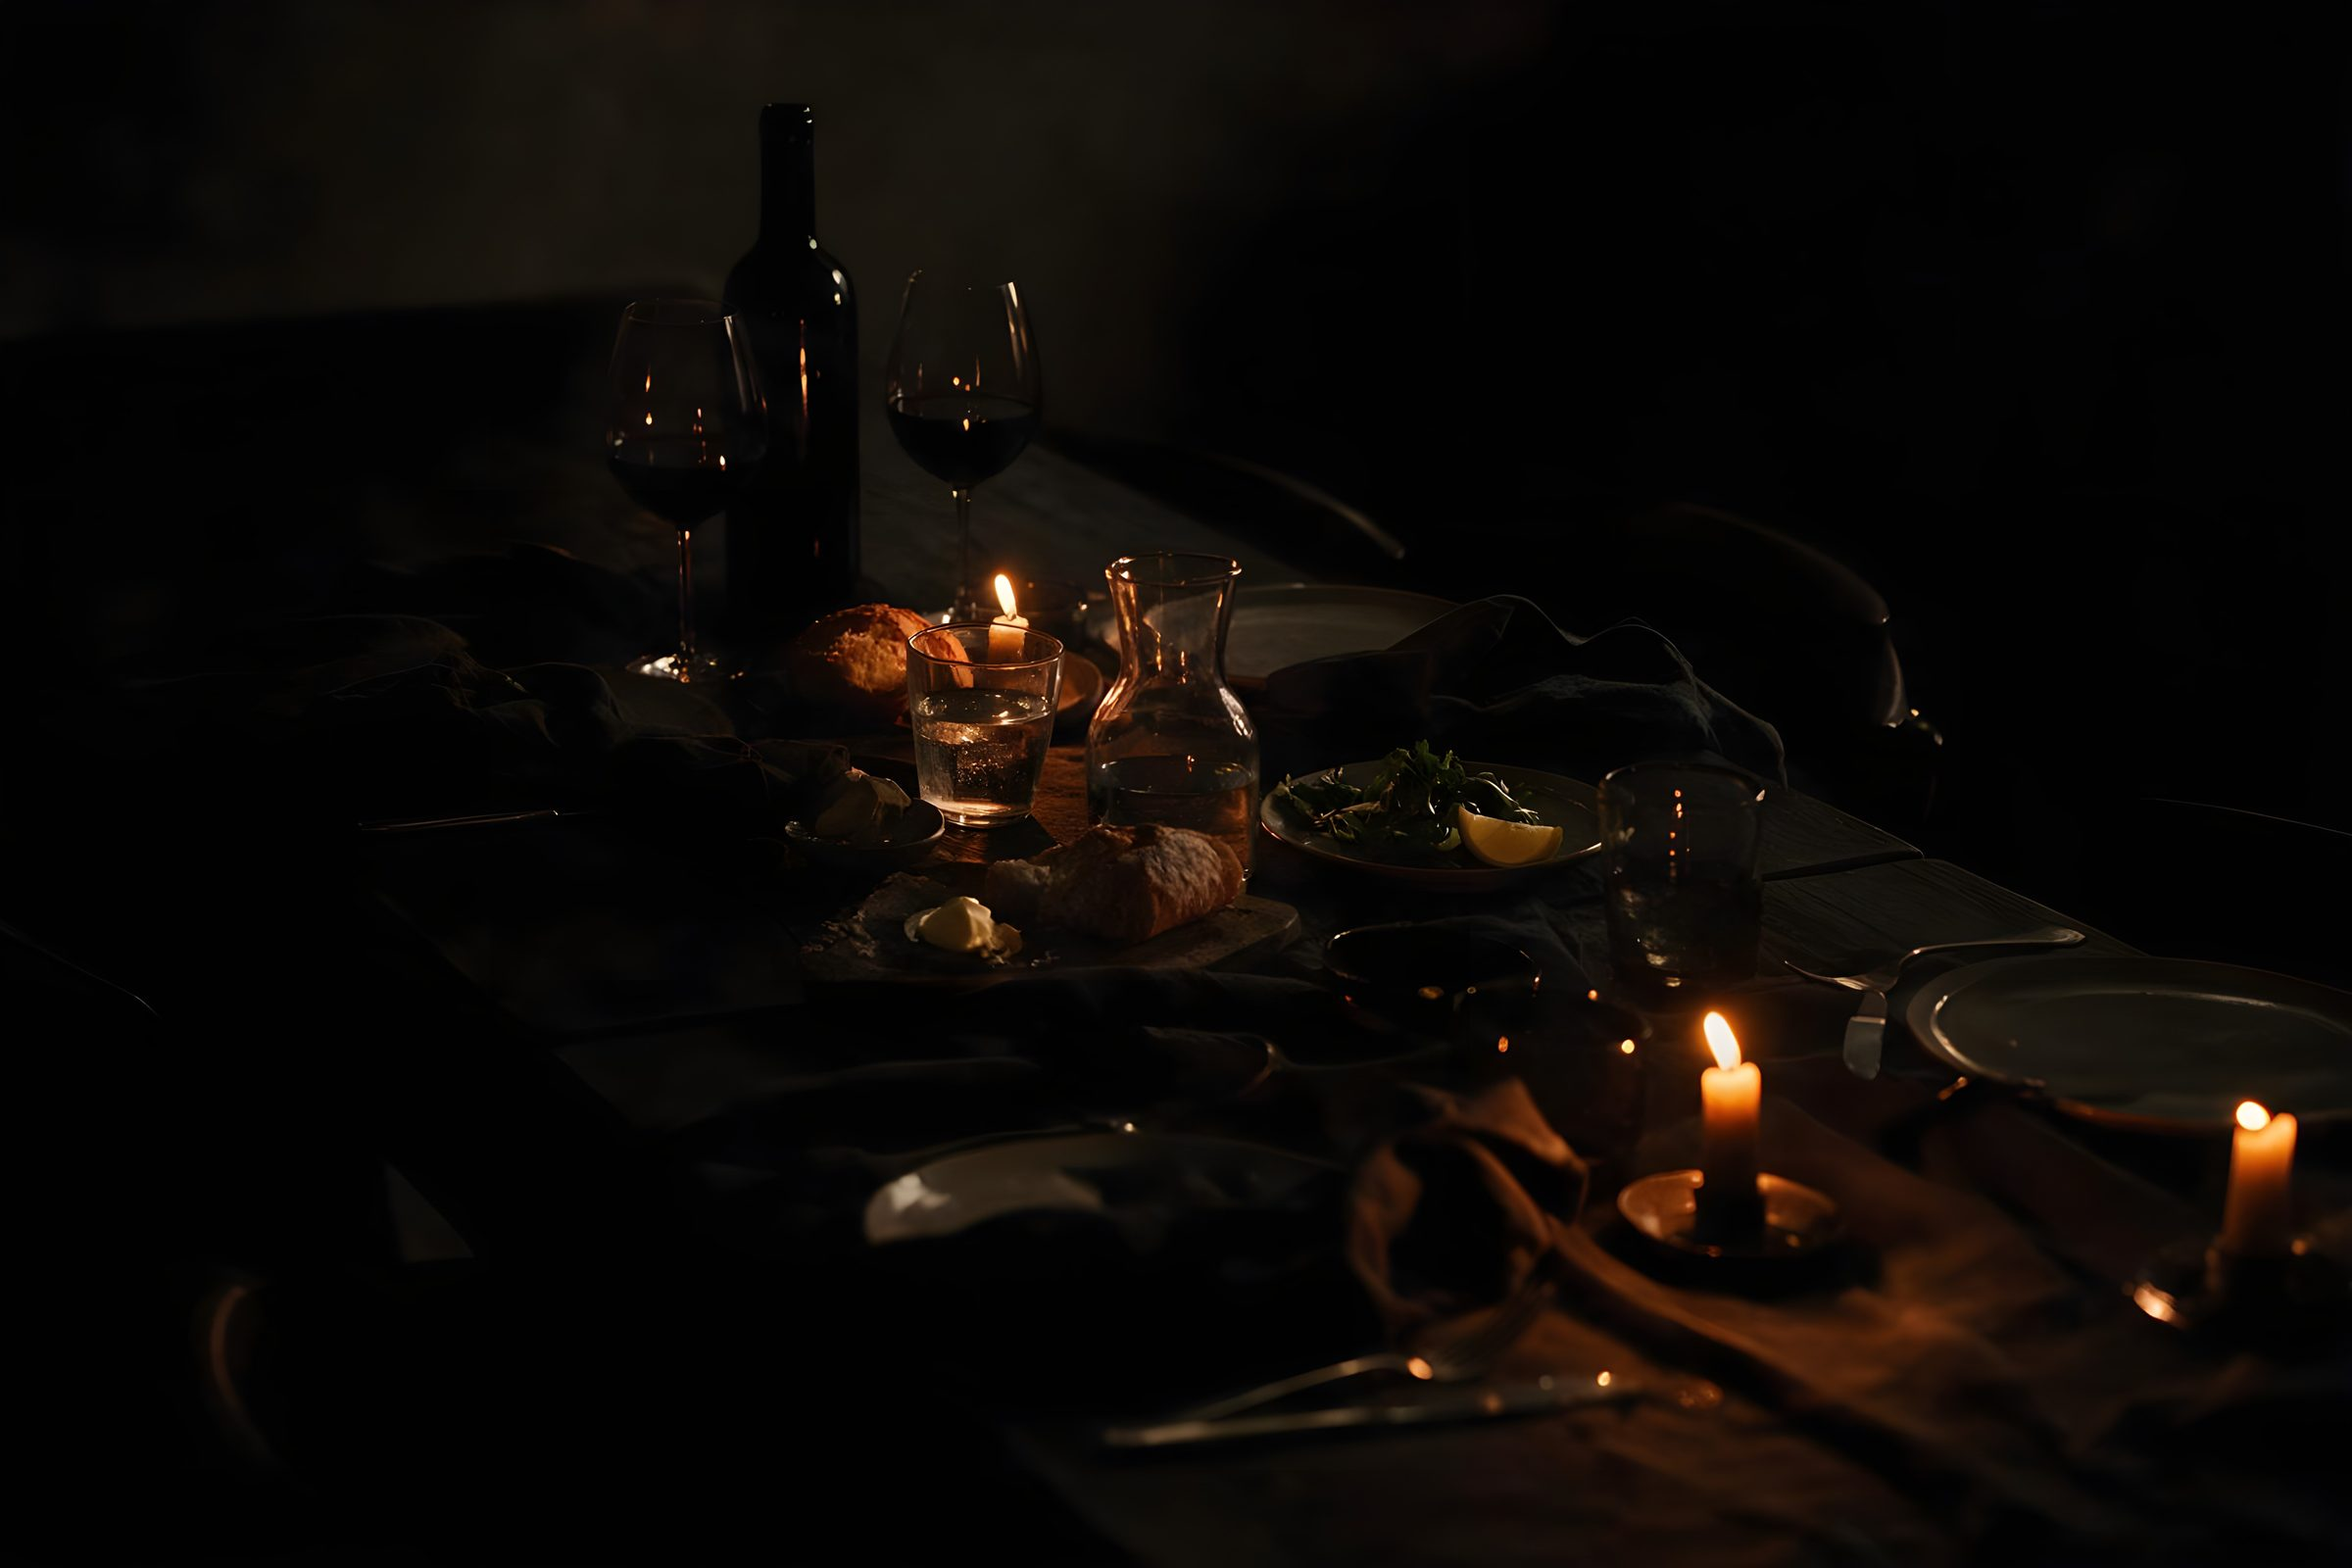
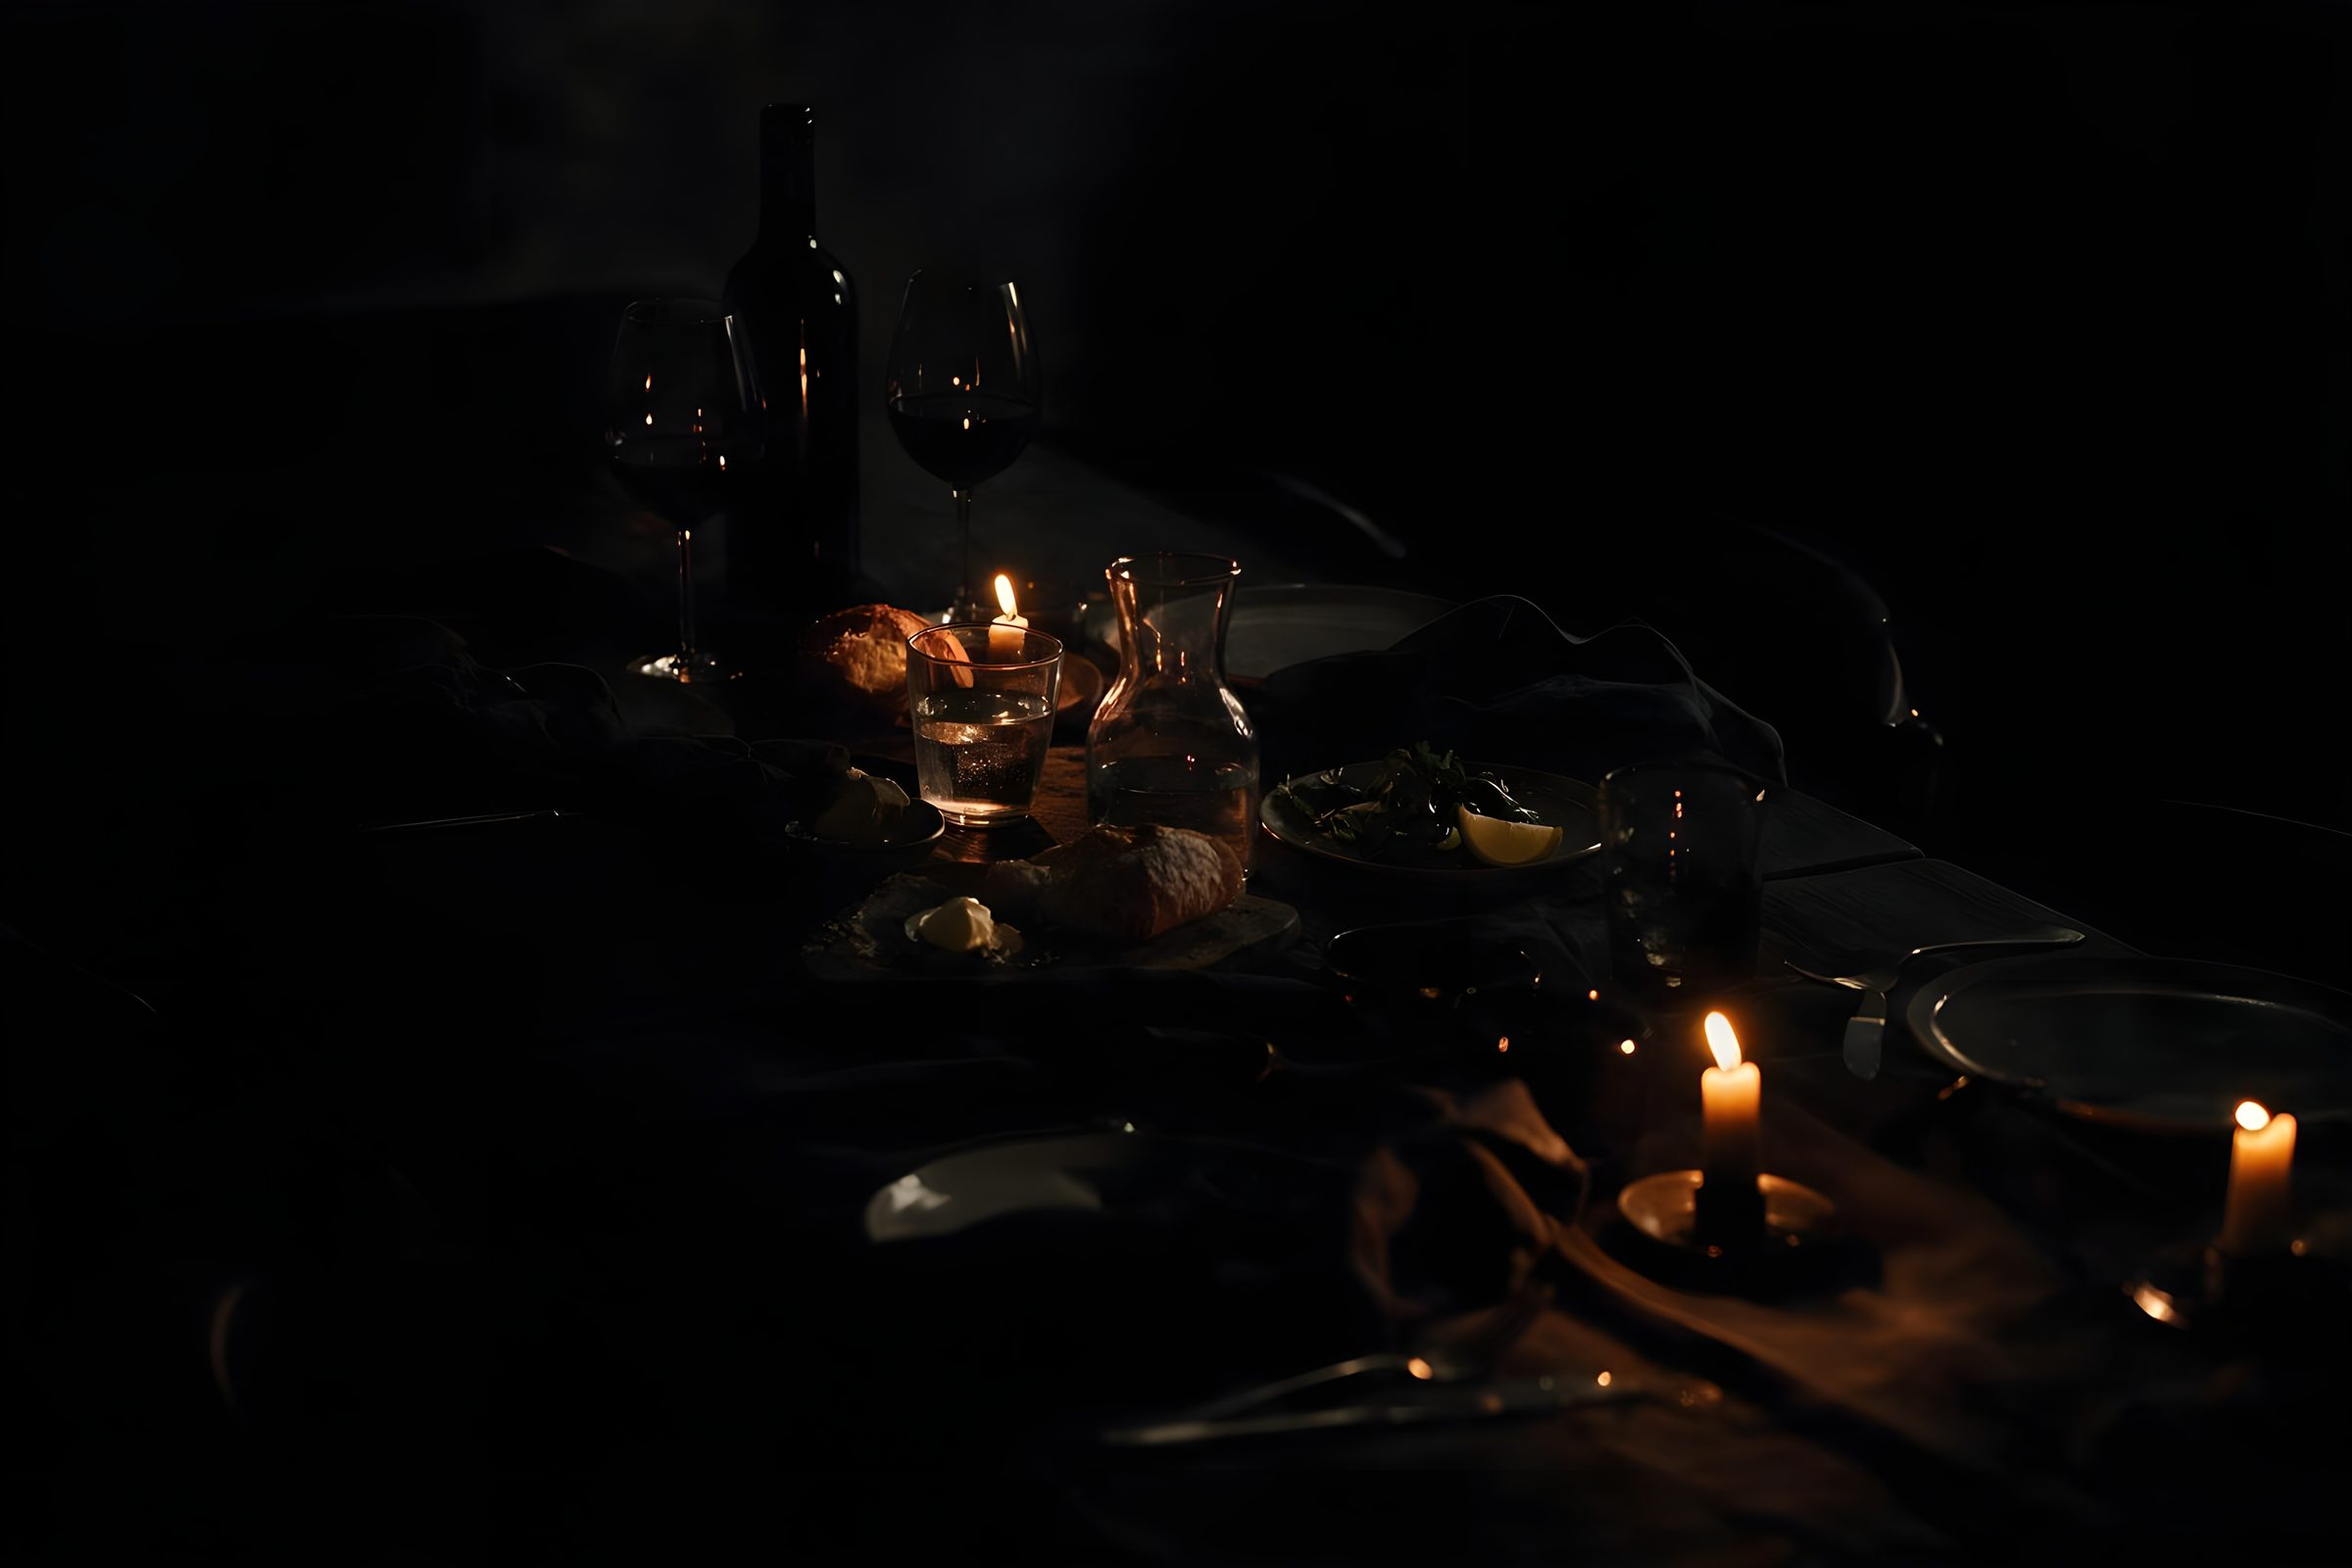
Bytt bakgrunnsbilde og skru ned overlegget en del (bg-cream/95 -> /78)
Henrik: "bytt til dette bildet, og skru ned overlayen en del" - nytt,
bredere bord-med-stearinlys-motiv (samme fil, public/images/evening-table.jpg),
og overlegget dempet fra /95 til /78 slik at bildet igjen er tydeligere
synlig, samme balanse som den opprinnelige /72 - bare med riktig
bg-cream-farge (nesten-svart) fra forrige runde i stedet for den
grålige bg-cream-dark.

Claude-Session: https://claude.ai/code/session_01YGxkUvJqcCLv2vBgfdiKRg

diff --git a/components/meal/EveningExperience.tsx b/components/meal/EveningExperience.tsx
@@ -527,9 +527,17 @@ export function EveningExperience({
            * i #191917 blandet med bildets egne mørke piksler leser som grått
            * nettopp fordi #191917 ER en gråtone sammenlignet med #0b0b0a.
            * Byttet derfor selve fargen til `bg-cream` (samme fargeverdi som
-           * resten av siden sin bunn), fortsatt på `/95` – nå blander
-           * overlegget seg med SAMME nesten-sorte tone som omgivelsene i
-           * stedet for en synlig lysere/gråere flate.
+           * resten av siden sin bunn), på `/95` – nå blander overlegget seg
+           * med SAMME nesten-sorte tone som omgivelsene i stedet for en
+           * synlig lysere/gråere flate.
+           *
+           * (29.09.2026, 13. runde – Henrik byttet samtidig selve bildet til
+           * et annet, bredere bord-med-stearinlys-motiv, og ba om at
+           * overlegget skrus NED en del igjen: "bytt til dette bildet, og
+           * skru ned overlayen en del") – `/95` → `/78`. Bildet er nå igjen
+           * tydeligere synlig (samme balanse som den opprinnelige `/72`,
+           * bare med riktig `bg-cream`-farge fra forrige runde i stedet for
+           * den grålige `bg-cream-dark`).
            * PÅ BORDET sin tidligere `bg-cream-dark`-flate (se filheaderen
            * lenger ned) er derfor fjernet – gjennomsiktig, som de to andre,
            * slik at bildet skinner gjennom overalt. VED SERVERING og
@@ -544,7 +552,7 @@ export function EveningExperience({
               style={{ backgroundImage: "url(/images/evening-table.jpg)" }}
               aria-hidden="true"
             />
-            <div className="absolute inset-0 bg-cream/95" aria-hidden="true" />
+            <div className="absolute inset-0 bg-cream/78" aria-hidden="true" />
 
             <div className="relative">
           <Reveal>
